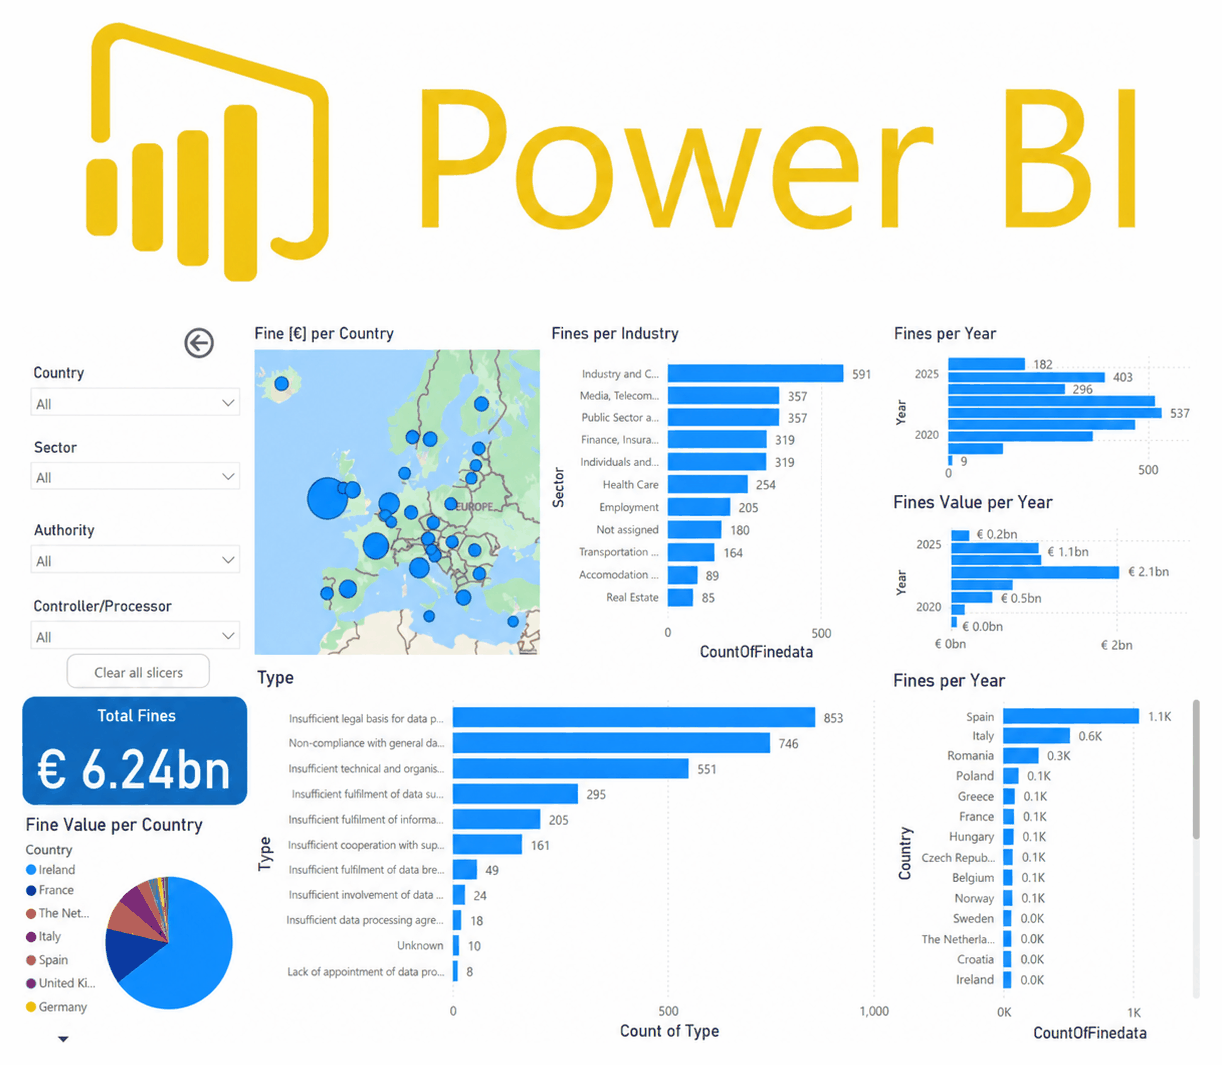
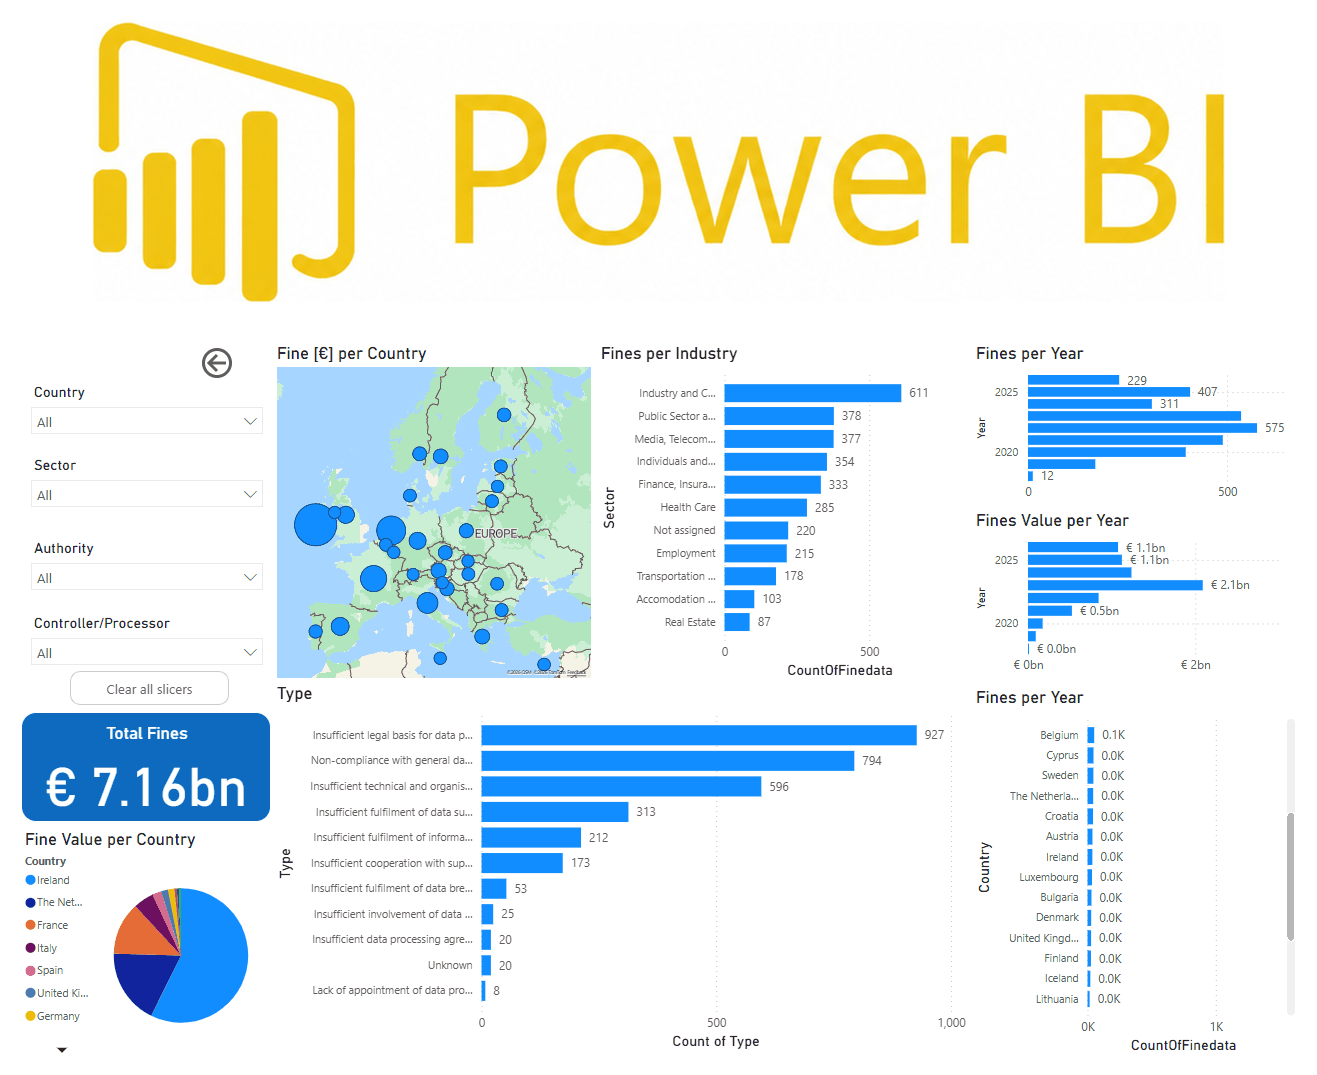
image

diff --git a/Claude outputs/home-tile-build/make_power_bi_tile.py b/Claude outputs/home-tile-build/make_power_bi_tile.py
@@ -1,20 +1,24 @@
-"""Builds images/power-bi-tile.png from images/power-bi-dashboard.png
-(21 September 2026).
+"""Builds images/power-bi-tile.png, the home page tile for the GDPR fines card.
 
-The source is a 1254 x 1254 square carrying the Power BI wordmark above a
-dashboard screenshot, with wide white margins: 101px above the wordmark, 110px
-between the wordmark and the dashboard, 67px below it, and 43px and 34px at the
-sides. The spotlight shows the tile with background-size: contain, so all of
-that white was being painted into the card and the result read as a white slab
-against the blue.
+Layout: the Power BI wordmark on top, a dashboard screenshot below, on white,
+trimmed tight so the spotlight (background-size: contain) shows no white slab.
 
-This trims to the two content blocks, restacks them with a 22px margin and a
-44px gap, and quantizes to 256 colours with no dithering. Result: 1222 x 1065
-and about 370KB, down from 1.16MB, with a mean per-channel difference under 1.
-Flat UI screenshots quantize almost losslessly; check the number printed below
-before accepting a rebuild.
+Sources:
+  - wordmark: images/power-bi-dashboard.png (the 1254 x 1254 composite of
+    21 September 2026; only its top block, the wordmark, is used)
+  - dashboard: power-bi-screenshot.png in this folder, a screenshot of the
+    published report. Replaced on 27 September 2026 after the date fix, when
+    the Total Fines card went from EUR 6.24bn to EUR 7.16bn. To refresh the
+    tile, overwrite that file with a new screenshot and rerun.
 
-Needs Pillow and numpy. Run it from anywhere:
+The Power BI viewer's grey footer bar (page counter, share icons) is cut off
+where the white report canvas ends. The wordmark is scaled so its width keeps
+the proportion to the dashboard it had in the 21 September tile (0.89).
+
+Quantized to 256 colours with no dithering; flat UI screenshots survive that
+almost losslessly. Check the printed mean difference before accepting.
+
+Needs Pillow and numpy:
     python3 make_power_bi_tile.py
 """
 
@@ -25,34 +29,49 @@ from PIL import Image, ImageChops
 
 here = os.path.dirname(os.path.abspath(__file__))
 images = os.path.join(here, "..", "..", "images")
-src = Image.open(os.path.join(images, "power-bi-dashboard.png")).convert("RGB")
-
-a = np.array(src)
-ink = a.astype(int).sum(axis=2) < 245 * 3
-
-
-def bbox(y0, y1):
-    """Tight box around the non-white pixels in a horizontal slice."""
-    sub = ink[y0:y1]
-    cols = np.where(sub.any(axis=0))[0]
-    rows = np.where(sub.any(axis=1))[0]
-    return (cols.min(), y0 + rows.min(), cols.max() + 1, y0 + rows.max() + 1)
-
-
-logo = bbox(0, 400)
-dash = bbox(430, src.size[1])
 
 MARGIN = 22
 GAP = 44
+LOGO_TO_DASH = 0.89
 
-lw, lh = logo[2] - logo[0], logo[3] - logo[1]
-dw, dh = dash[2] - dash[0], dash[3] - dash[1]
+
+def ink_mask(img, level=245):
+    return np.array(img).astype(int).sum(axis=2) < level * 3
+
+
+def bbox(mask, y0, y1):
+    sub = mask[y0:y1]
+    cols = np.where(sub.any(axis=0))[0]
+    rows = np.where(sub.any(axis=1))[0]
+    return (int(cols.min()), y0 + int(rows.min()), int(cols.max()) + 1, y0 + int(rows.max()) + 1)
+
+
+# Wordmark from the old composite.
+comp = Image.open(os.path.join(images, "power-bi-dashboard.png")).convert("RGB")
+logo = comp.crop(bbox(ink_mask(comp), 0, 400))
+
+# Dashboard: stop at the first row of the viewer's footer bar, a full-width
+# grey line, then trim the white around the report.
+shot = Image.open(os.path.join(here, "power-bi-screenshot.png")).convert("RGB")
+a = np.array(shot).astype(int)
+row_mean = a.mean(axis=(1, 2))
+row_flat = a.std(axis=(1, 2))
+footer = next((y for y in range(shot.size[1] // 2, shot.size[1])
+               if row_mean[y] < 235 and row_flat[y] < 3), shot.size[1])
+dash = shot.crop((0, 0, shot.size[0], footer))
+dash = dash.crop(bbox(ink_mask(dash), 0, dash.size[1]))
+
+target_w = round(dash.size[0] * LOGO_TO_DASH)
+logo = logo.resize((target_w, round(logo.size[1] * target_w / logo.size[0])), Image.LANCZOS)
+
+lw, lh = logo.size
+dw, dh = dash.size
 W = max(lw, dw) + 2 * MARGIN
 H = MARGIN + lh + GAP + dh + MARGIN
 
 tile = Image.new("RGB", (W, H), (255, 255, 255))
-tile.paste(src.crop(logo), ((W - lw) // 2, MARGIN))
-tile.paste(src.crop(dash), ((W - dw) // 2, MARGIN + lh + GAP))
+tile.paste(logo, ((W - lw) // 2, MARGIN))
+tile.paste(dash, ((W - dw) // 2, MARGIN + lh + GAP))
 
 out = tile.quantize(colors=256, dither=Image.NONE)
 path = os.path.join(images, "power-bi-tile.png")
@@ -60,4 +79,4 @@ out.save(path, optimize=True)
 
 diff = np.array(ImageChops.difference(tile, out.convert("RGB")))
 print(os.path.normpath(path), out.size, os.path.getsize(path),
-      "bytes; quantization mean", round(diff.mean(), 3), "max", diff.max())
+      "bytes; footer cut at", footer, "; quantization mean", round(diff.mean(), 3), "max", diff.max())

diff --git a/README.md b/README.md
@@ -171,7 +171,7 @@ the rerun order for the apply scripts across all four digest data files is in
 | `study-pack-build/` | Data and scripts that generate `privacy-ai-act-assessments-study-pack-v2.pdf`: `pages.json` (the prose of the two advice pages extracted to markdown), `extract_pages.py` that regenerates it from the HTML, the authored study layer (`study_pp.py`, `study_aia.py`, `study_tools.py`), the front matter, the two tools' content dumped from the live pages, and `build.py`. README inside. Added 20 September 2026; before that the pack could not be rebuilt from the repo. | You edit prose on either advice page, or need to reprint the study pack. Note `pages.json` is a copy of the site text and has to be kept in step. |
 | `site-nav-build/` | `digest_nav.py` (the master copy of the shared side contents, results box, jump bar and Top button; the EDPB and cookie builds carry identical copies), `swap_header.py` (replaces a generated page's header block with the current four-item nav; run it after every page rebuild) and `apply_nav.py` (adds them to the two advice pages without touching their copy; the advice jump bar is Search and All situations only). README inside. | You change the navigation pattern or rebuild an advice page after editing its text. |
 | `seo-build/` | `apply_seo.py`: meta descriptions (160 characters or fewer), Open Graph and Twitter tags, JSON-LD (`Person` and `WebSite` on the home page, `TechArticle`, `CollectionPage`, `WebApplication` or `WebPage` elsewhere), the www host everywhere, `llms.txt` and sitemap `lastmod`. Idempotent. | You add or rename a page, change a description, or rebuild a digest or advice page. |
-| `home-tile-build/` | Two scripts that draw home page tiles. `make_power_bi_tile.py` rebuilds `images/power-bi-tile.png` from `images/power-bi-dashboard.png`: it trims the wide white margins off the wordmark and the dashboard, restacks them with a 22px margin and a 44px gap, and quantizes to 256 colours, which takes 1.16MB down to about 370KB. The spotlight contains rather than covers that tile and sets no background colour, so the untrimmed white used to paint a slab across the card. `make_regulatory_digests_tile.py` is superseded: it drew the first, flat tile for the Regulatory Digests spotlight, which Simeon replaced with his own artwork on 21 Sept 2026, so it now writes to `regulatory-digests-flat.png` rather than over the artwork. It draws `images/regulatory-digests.png`, the 1000 x 1000 tile behind the Regulatory Digests spotlight on the home page. Flat mock of a digest page in the site navy, drawn at 2x and resized; needs Pillow and the DejaVu fonts. No source pills in the image on purpose: the three tool-chips the spotlight lays over the left half of it already name the three digests. | You want to redraw or restyle the home page digests tile. |
+| `home-tile-build/` | Two scripts that draw home page tiles. `make_power_bi_tile.py` rebuilds `images/power-bi-tile.png`: the Power BI wordmark cut from `images/power-bi-dashboard.png` on top, and below it `power-bi-screenshot.png` from this folder, a screenshot of the published report with the viewer's grey footer bar cut off (replaced 27 Sept 2026 after the Power BI date fix, Total Fines EUR 7.16bn; to refresh the tile, overwrite the screenshot and rerun). Trimmed, restacked with a 22px margin and a 44px gap, quantized to 256 colours, about 200KB. The spotlight contains rather than covers that tile and sets no background colour, so the untrimmed white used to paint a slab across the card. `make_regulatory_digests_tile.py` is superseded: it drew the first, flat tile for the Regulatory Digests spotlight, which Simeon replaced with his own artwork on 21 Sept 2026, so it now writes to `regulatory-digests-flat.png` rather than over the artwork. It draws `images/regulatory-digests.png`, the 1000 x 1000 tile behind the Regulatory Digests spotlight on the home page. Flat mock of a digest page in the site navy, drawn at 2x and resized; needs Pillow and the DejaVu fonts. No source pills in the image on purpose: the three tool-chips the spotlight lays over the left half of it already name the three digests. | You want to redraw or restyle the home page digests tile. |
 | `fines-analytics-build/` | `build_analytics_data.py` turns the enforcement tracker's analytics JSON (the `et-analytics` script tag on its Analytics page) into `pages/gdpr-fines-analytics/analytics-data.js`, re-deriving GDPR Articles with the fine calculator's parser. README has the steps and the totals to check against. | You want to refresh the data behind the GDPR Fines Analytics page. |
 | `risk-matrix-desktop.png`, `risk-matrix-phone.png` | Screenshots from the risk matrix layout work. The home tile the site uses is `images/risk-matrix-tile.png` (1000 x 1000, matrix centred at mid size); `images/risk-matrix-desktop.png`, `risk-matrix-phone.png` and `risk-matrix-tile2.png` are earlier attempts no page references. | Reference only. |
 
